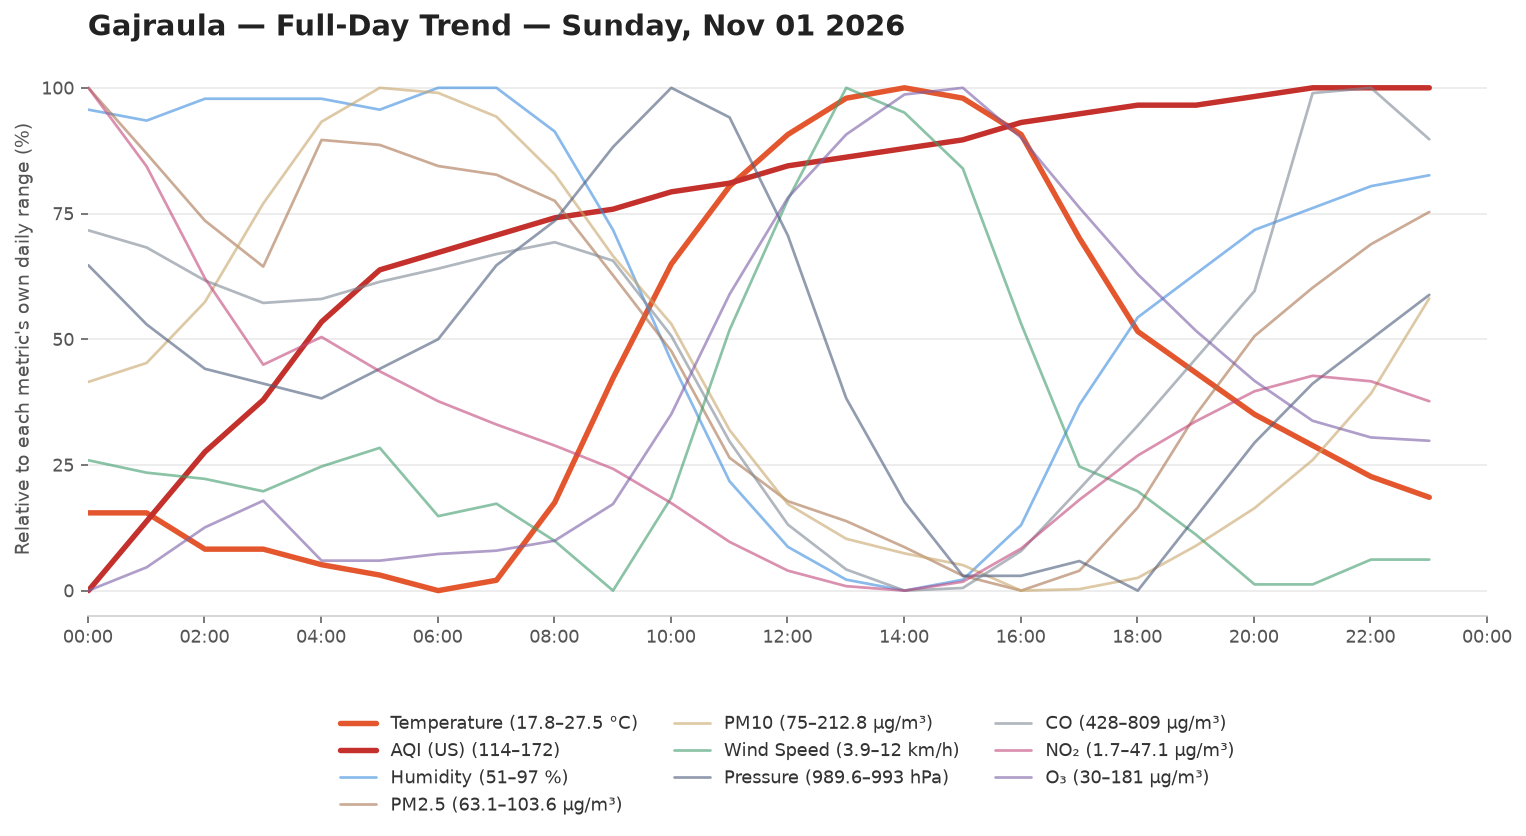
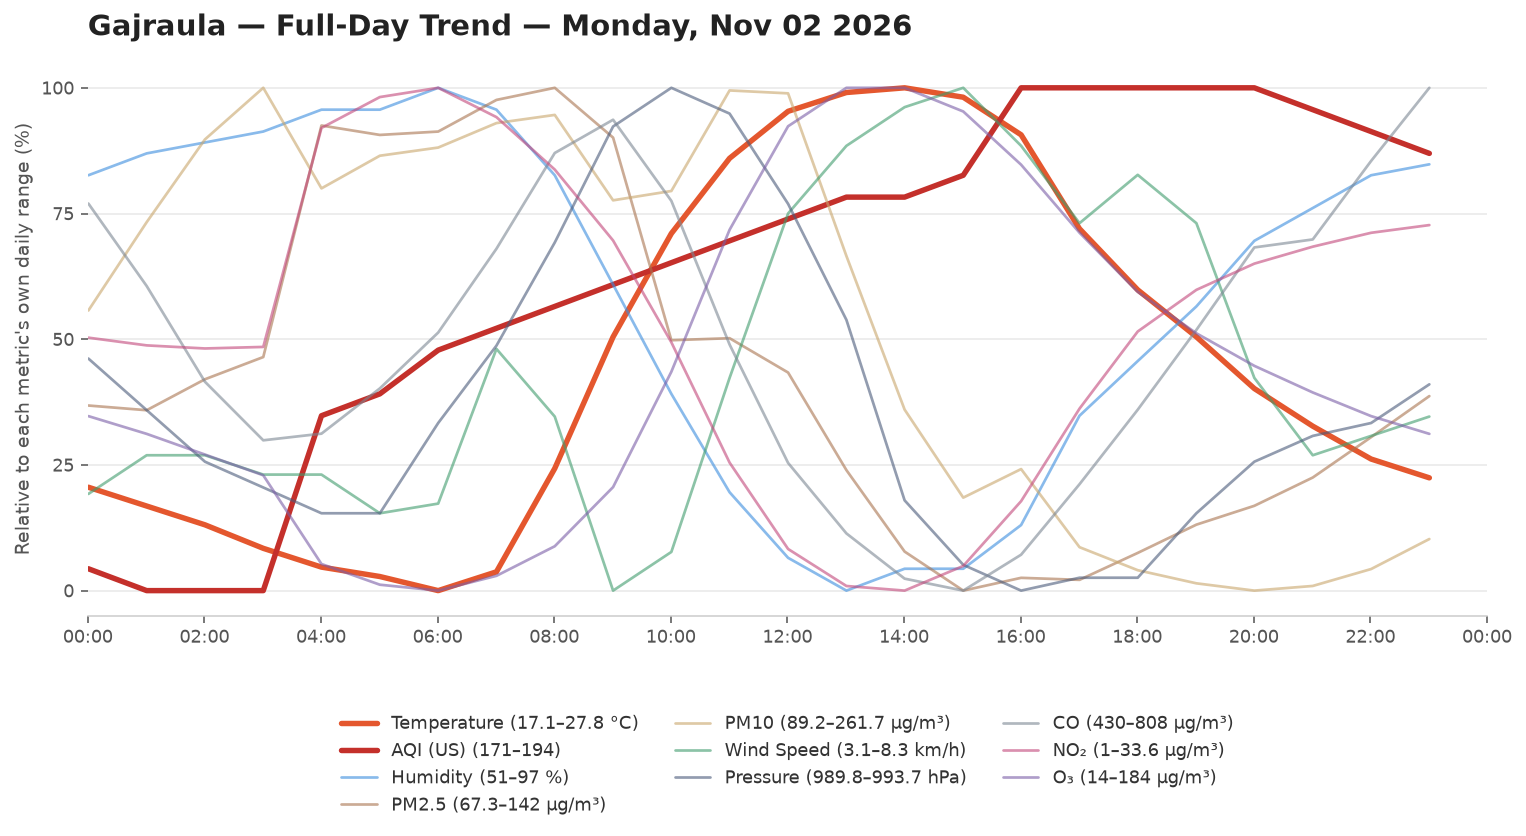
Auto-update weather data 2026-11-02 18:30 UTC

diff --git a/README.md b/README.md
@@ -9,24 +9,25 @@ Automated Weather Logger. Logs Temperature,Humidity,Wind speed, Pressure and Air
 ## 📊 Current Conditions
 
 <!-- DATA-START -->
-**Last updated:** `2026-11-02 17:30:40 UTC`
+**Last updated:** `2026-11-02 18:30:45 UTC`
 
 | Metric | Value |
 |---|---|
-| 🌡 Temperature | 19.5 °C |
+| 🌡 Temperature | 19.2 °C |
 | 💧 Humidity | 90 % |
 | 🌧 Rain (last hr) | 0.0 mm |
-| 💨 Wind Speed | 4.9 km/h |
-| 🧭 Wind Direction | 280° |
+| 💨 Wind Speed | 4.5 km/h |
+| 🧭 Wind Direction | 277° |
 | 🔵 Pressure | 991.4 hPa |
-| 🌫 AQI (US) | 191 — Unhealthy 🔴 |
-| PM2.5 | 96.2 µg/m³ |
-| PM10 | 106.9 µg/m³ |
+| 🌫 AQI (US) | 190 — Unhealthy 🔴 |
+| PM2.5 | 99.9 µg/m³ |
+| PM10 | 118.5 µg/m³ |
 
 <details><summary>Last 24 readings</summary>
 
 | Time (UTC) | Temp °C | Rain mm | AQI | Wind km/h | Humidity % |
 |---|---|---|---|---|---|
+| 2026-11-02 18:30:45 | 19.2 | 0.0 | 190 | 4.5 | 90 |
 | 2026-11-02 17:30:40 | 19.5 | 0.0 | 191 | 4.9 | 90 |
 | 2026-11-02 16:30:43 | 19.9 | 0.0 | 192 | 4.7 | 89 |
 | 2026-11-02 15:30:40 | 20.6 | 0.0 | 193 | 4.5 | 86 |
@@ -50,7 +51,6 @@ Automated Weather Logger. Logs Temperature,Humidity,Wind speed, Pressure and Air
 | 2026-11-01 21:30:33 | 18.0 | 0.0 | 171 | 4.3 | 93 |
 | 2026-11-01 20:30:33 | 18.5 | 0.0 | 171 | 4.5 | 92 |
 | 2026-11-01 19:30:33 | 18.9 | 0.0 | 171 | 4.5 | 91 |
-| 2026-11-01 18:30:34 | 19.3 | 0.0 | 172 | 4.1 | 89 |
 
 </details>
 <!-- DATA-END -->
@@ -66,7 +66,10 @@ Every logged metric for yesterday (the last fully completed day, midnight-to-mid
 Every day's full-day trend chart, newest first. No retention limit — this grows forever.
 
 <!-- HISTORY-START -->
-<details><summary>Last 87 day(s)</summary>
+<details><summary>Last 88 day(s)</summary>
+
+**2026-11-02**
+![2026-11-02 trend](data/chart-history/2026-11-02.png)
 
 **2026-11-01**
 ![2026-11-01 trend](data/chart-history/2026-11-01.png)
